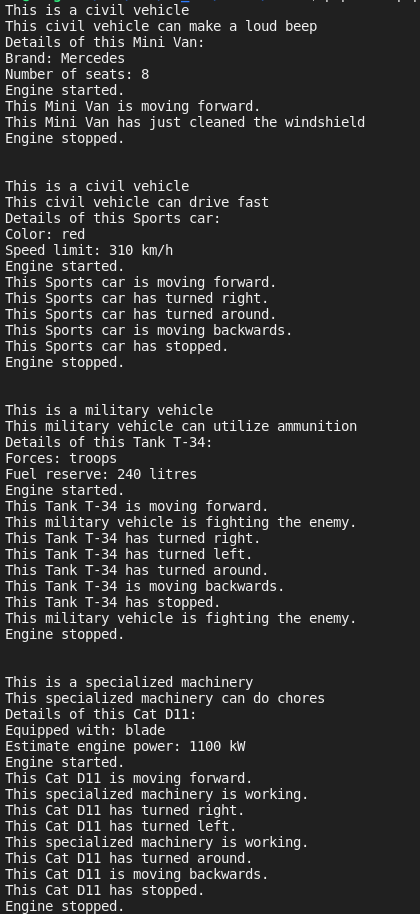
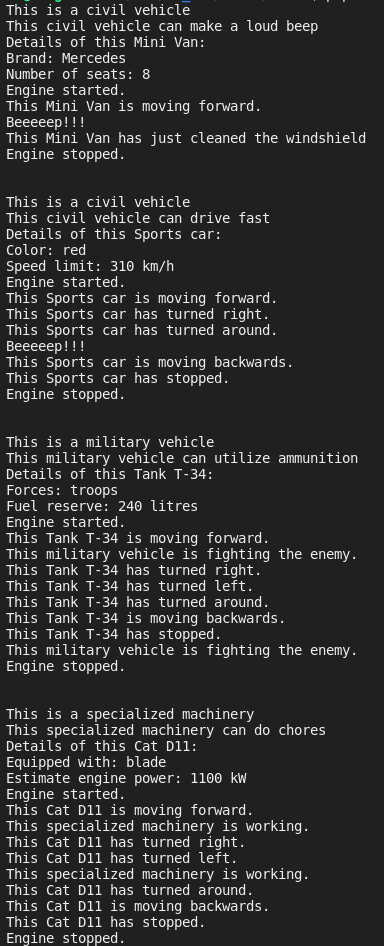
A few updates to civil classes

Changed region(s): [[0.0, 0.0, 0.9688, 1.0]]

diff --git a/Mod24/Main.php b/Mod24/Main.php
@@ -12,7 +12,8 @@ $minivan->getAction();
 $minivan->getDetails();
 $minivan->startEngine();
 $minivan->drive();
-$minivan->cleanWindscreen();
+$minivan->beep();
+$minivan->cleanWindshield();
 $minivan->stopEngine();
 
 echo "\n\n";
@@ -27,6 +28,7 @@ $sportsCar->startEngine();
 $sportsCar->drive();
 $sportsCar->turn();
 $sportsCar->turn(0);
+$sportsCar->beep();
 $sportsCar->drive(-1);
 $sportsCar->drive(0);
 $sportsCar->stopEngine();

diff --git a/Mod24/task/models/Civil.php b/Mod24/task/models/Civil.php
@@ -9,7 +9,11 @@ class CivilVehicle extends Vehicle{
     $this->type = "civil vehicle";
   }
 
-  public function cleanWindscreen(){
+  public function beep(){
+    echo "Beeeeep!!!\n";
+  }
+
+  public function cleanWindshield(){
     echo "This {$this->description} has just cleaned the windshield \n";
   }
 }
